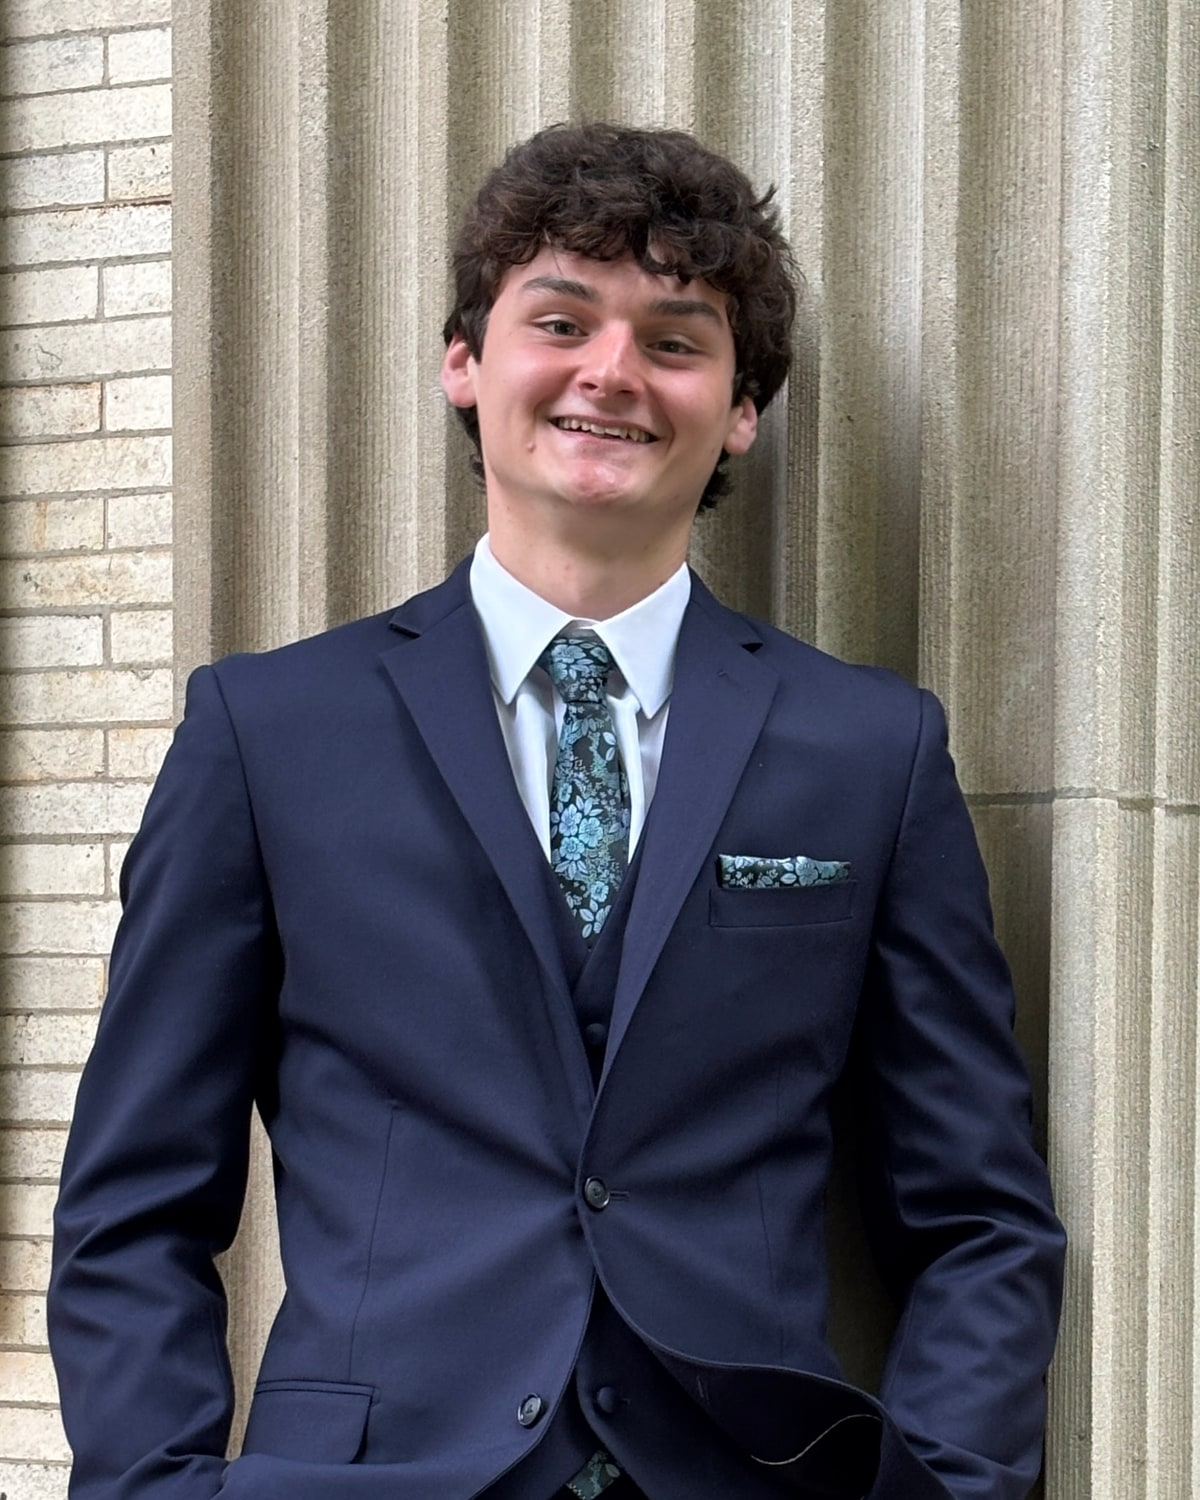
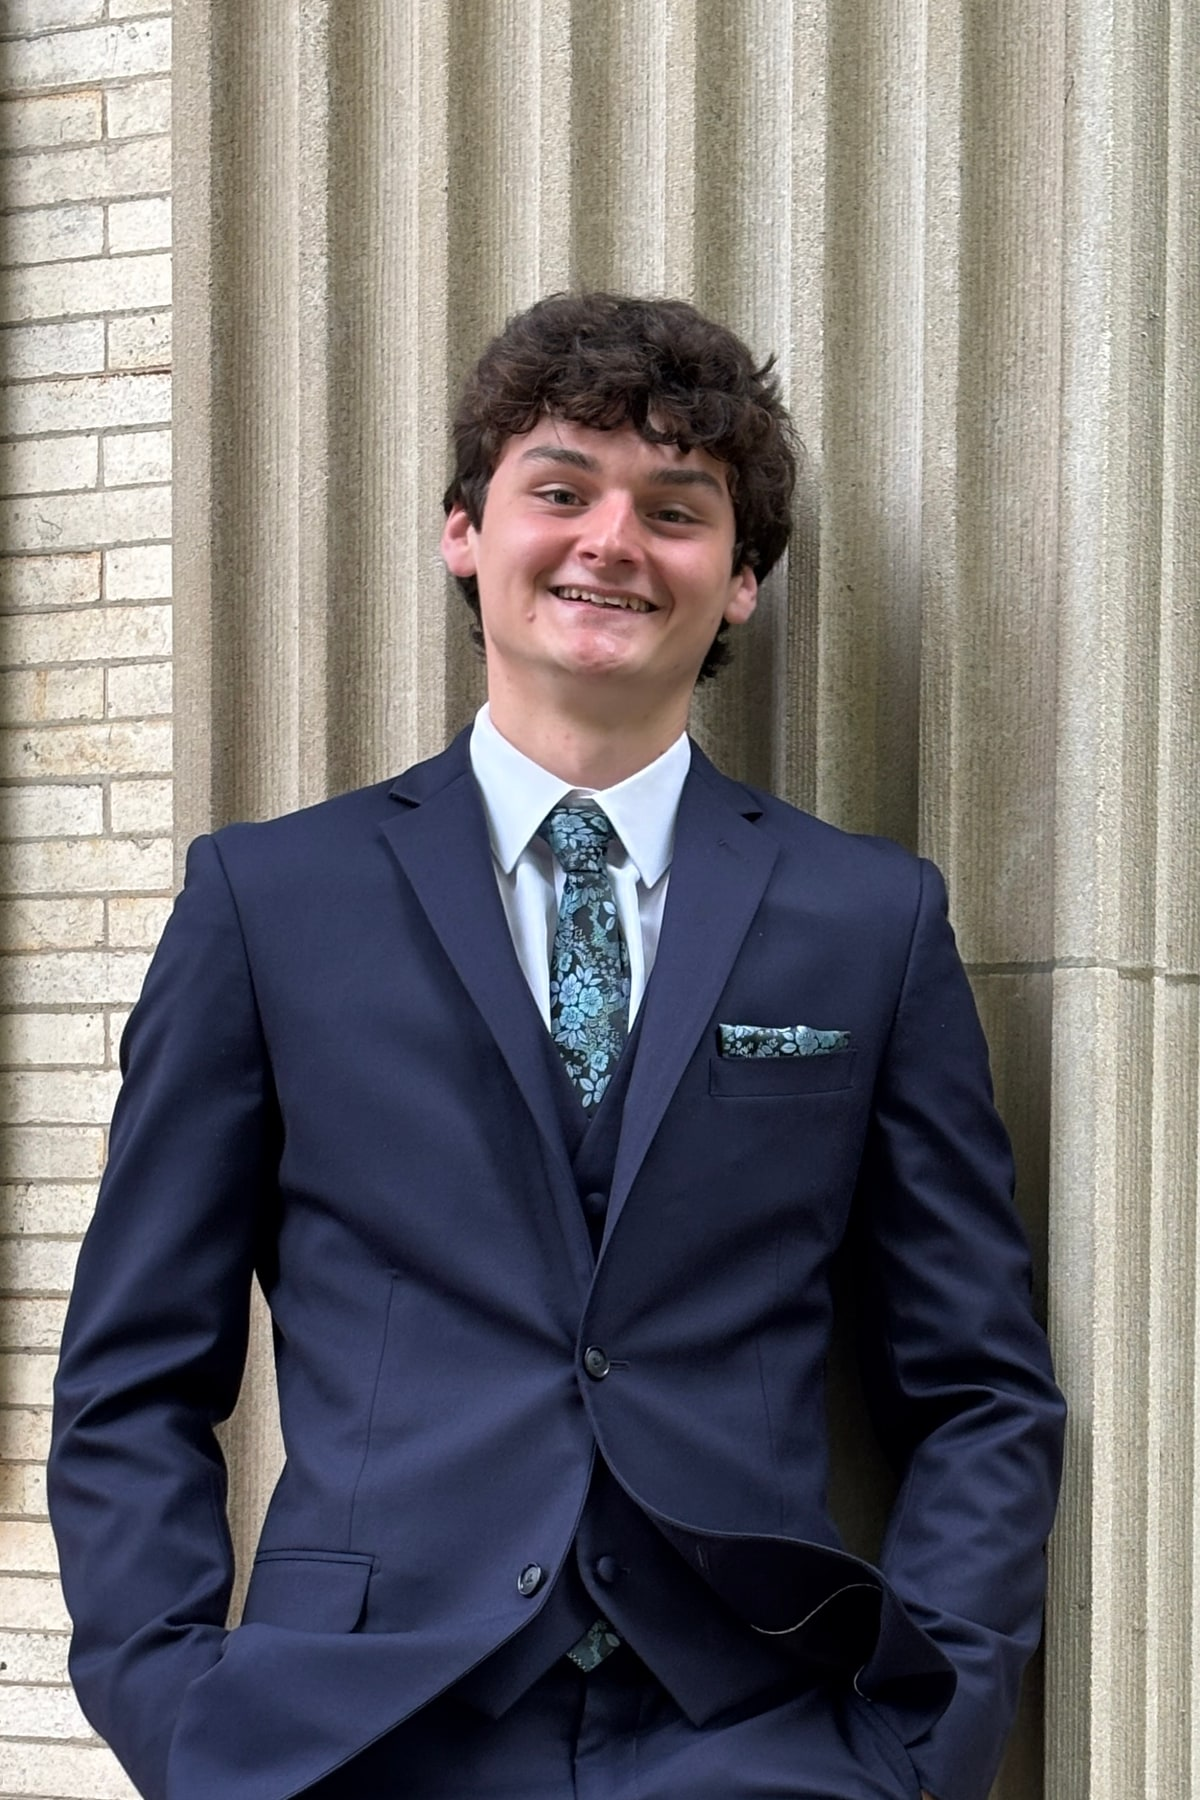
Updated content with resume and changed home photo size, presence, and cropping.

diff --git a/HANDOFF.md b/HANDOFF.md
@@ -11,7 +11,7 @@ Rewritten 2026-10-01 into sections; the log below is the history behind it.
 - **Live:** `https://rosschamplin.com` (Vercel, static). `www` redirects to it. Ross commits and pushes; Vercel deploys `main`.
 - **Built (PLAN.md tasks 1–12 and 14 done; 13 deferred by Ross):** Astro 7 static site, TypeScript strict, Tailwind v4 tokens; content collections; Home (identity, Selected work), `/projects`, `/projects/[slug]`, `/experience`, `/contact`; responsive and accessibility passes.
 - **Built beyond the plan, at Ross's request:** motion system (page change, Home first-load sequence, scroll reveals, project row hover and press with a travelling accent); title morph between a project row and its page; running index in the desktop margin with progress fills and drawing rules; logo contact links; education fields and a resume button; sharing basics (favicon, meta, canonical, Open Graph image, sitemap, robots); Vercel Web Analytics; graphite dust background.
-- **Content:** real: name, role line ("CS Student at Binghamton University"), email, GitHub, LinkedIn, Home photo, education (Binghamton University, Webster Schroeder High School), roles (2), achievements (6), and MixTwin's role, dates, stack, and what was built. Placeholders: bio, personal note, MixTwin's kind and problem, all of NailsByGabs, the resume PDF button.
+- **Content:** real: name, role line ("CS Student at Binghamton University"), email, GitHub, LinkedIn, Home photo, education (Binghamton University, Webster Schroeder High School), roles (2), achievements (6), the resume button (technical resume), and MixTwin (personal project; Ross's own description, marked for a technical rewrite). Placeholders: bio, personal note, all of NailsByGabs.
 
 ### In progress
 
@@ -19,7 +19,7 @@ None.
 
 ### Next
 
-- Waiting on Ross's answers (2026-10-02): which resume PDF to publish (the general one shows his home address and phone; the technical one his phone and school email), MixTwin's kind and problem plus repo/demo links, whether the photo crop and treatment are right, and what to do with the original photos and PDFs sitting in `src/content` (large; not used by the build). Do not publish a resume PDF until Ross chooses. Excluded at Ross's instruction: TOPSoccer (not started), the AP Water Quality project (first on the technical resume), and the technical skills list (outdated).
+- Waiting on Ross: a more technical MixTwin description (the current text is his plain-language version; the file is marked NEEDS REWRITE), MixTwin repo/demo links if any, NailsByGabs details (the most important project), bio and note, an updated technical resume. The Home photo is settled: Ross wants it big and dominant, not pinned while scrolling (2026-10-02). Ross runs `git rm --cached` on the originals (see the 2026-10-02 log). Excluded at Ross's instruction: TOPSoccer (not started), the AP Water Quality project (first on the technical resume), the technical skills list (outdated).
 - Waiting on Ross: bio, personal note, MixTwin and NailsByGabs details and screenshots, a third and fourth project later (one becomes the third featured). Delete placeholder entries as real ones arrive.
 - Ross to enable Web Analytics in Vercel if not done; set the `www` redirect to 308.
 - PLAN.md task 13 (performance) stays deferred until Ross asks.
@@ -363,3 +363,14 @@ None.
 - Photo: cropped `BallTuxFull.JPEG` (2268×4032) to a 4:5 head-to-waist frame (x 248, y 300, 1700×2125), resized to 1200×1500, metadata stripped (the original had EXIF), saved as [src/content/images/ross-champlin.jpg](src/content/images/ross-champlin.jpg) (288 KB). Home renders it with `<Picture>` (AVIF and WebP at 480, 720, 960, 1200; served files 20–174 KB), `loading="eager"`, `fetchpriority="high"`. Styling after matthewgresock.com: no frame, `contrast(1.04) brightness(0.9) saturate(0.9)`, mask fades on every edge (stronger left and bottom). Layout: from `lg` a right column (22rem, 26rem from `xl`) beside the text; on phones full width above the name. It joins the first-load sequence at 200ms. Removed the unused `public/images/profile/`.
 - Docs: [src/content/README.md](src/content/README.md) (photo and education), [DESIGN.md](DESIGN.md) (Home visual), [AGENTS.md](AGENTS.md) (Home visual, site map, content list, log), [PLAN.md](PLAN.md) (open items), and this file's Current.
 - Verified in headless Edge at 390×844 and 1440×900: photo 390×488 edge to edge above the name on the phone, 416×520 beside the text on desktop, AVIF served; Experience shows Education (2), Roles (2), Achievements (6), Resume; MixTwin shows role, dates, and stack; no horizontal overflow; no exceptions. `npm run check` 0/0/0; `npm run build` succeeds. Nothing committed.
+
+### 2026-10-02 — Claude (Opus 5.5)
+
+- Ross's answers: publish the technical resume; MixTwin is a personal project for beginners struggling to build DJ sets, with his plain-language description to be replaced by a technical one later; the photo should be bigger, "more persistent", cut less close above the head, and more vivid; keep the original photos and general resume out of the repo; summer camp stays Jun 2023 – Aug 2026; WonderCare stays ongoing (he works during breaks).
+- Resume: moved `src/content/RossChamplinTechnicalResumeUpdated.pdf` to `public/Ross-Champlin-Resume.pdf`; `profile.resume` is `label: Resume (PDF)`, `href: /Ross-Champlin-Resume.pdf`. The Experience button opens it in a new tab (verified: a new page target opens and the tab stays on `/experience`). It shows Ross's phone and school email; that was his choice.
+- [.gitignore](.gitignore): `src/content/BallTuxFull.JPEG`, `src/content/BallTuxFullZoomedOut.JPEG`, `src/content/RossChamplin2026Resume.pdf`. They were already committed in `5fb039e` (pushed; the GitHub repo answers 404 to unauthenticated API and raw requests, so it appears private), so the ignore alone does not remove them; Ross is to run `git rm --cached src/content/BallTuxFull.JPEG src/content/BallTuxFullZoomedOut.JPEG src/content/RossChamplin2026Resume.pdf` and commit. They stay in history unless the history is rewritten. Agents did not touch the index.
+- MixTwin ([src/content/projects/mixtwin.md](src/content/projects/mixtwin.md)): `kind: personal`, problem "Putting together DJ sets is a struggle for beginners.", summary "A DJ set planning assistant for beginners.", `placeholder: false`; body is Ross's description (spelling fixed: analyzed, determine, beat pattern, structure, certain, environment, windowed, rekordbox) followed by the resume bullets. A `NEEDS REWRITE` comment at the top marks it for his technical version.
+- Photo: re-cropped `BallTuxFull.JPEG` at 2:3 (x 248, y 60, 1700×2550; about 16% headroom above the hair, down to just past the hands), 1200×1800, metadata stripped, 350 KB source. Home: from `lg` a 26rem (30rem from `xl`) column at `min(100svh - 10rem, 46rem)` tall, `object-cover object-top`; phones `aspect-[3/4]`, full width. Filter now `contrast(1.06) saturate(1.15)` (was `contrast(1.04) brightness(0.9) saturate(0.9)`, which made it look dull; the crop itself kept the original's color, checked by mean saturation 0.29 in both). Measured: desktop 480×736, phone 390×520.
+- Docs: [src/content/README.md](src/content/README.md), [DESIGN.md](DESIGN.md), [AGENTS.md](AGENTS.md), [PLAN.md](PLAN.md), and this file's Current.
+- `npm run check` 0/0/0; `npm run build` succeeds. No horizontal overflow or exceptions at 390px and 1440px. Nothing committed.
+- Follow-up: Ross confirmed "more persistent" meant bigger and more dominant, as built, not pinned while scrolling. No change to the page.

diff --git a/AGENTS.md b/AGENTS.md
@@ -22,7 +22,7 @@ Why this stack: one language to maintain, content edited as Markdown, and a stat
 - Display name: Ross Champlin.
 - Look: a dark lab notebook, closer to Linear and Iota, with motion at the level of the fluidity references (Linear, Stripe, Cuberto, Fuselab). Tokens and motion rules are in DESIGN.md. v1 has no light theme.
 - Background: graphite dust on every page, a fine muted speck field the cursor (or a finger) brushes aside and scrolling stirs; no cursor change, trail, or click burst; switches itself off on slow devices. Approved 2026-10-01.
-- Home visual: Ross's photo (`src/content/images/ross-champlin.jpg`, cropped from `BallTuxFull.JPEG`), styled after matthewgresock.com: no frame, edges fading into the ground, right column on desktop, full width above the name on phones.
+- Home visual: Ross's photo (`src/content/images/ross-champlin.jpg`, a 2:3 crop of `BallTuxFull.JPEG` with headroom), styled after matthewgresock.com: large, vivid, no frame, edges fading into the ground; a near full-height right column on desktop, full width above the name on phones.
 - Purpose: a record of school and personal projects, a bio, and other life achievements, with room for personal commentary. Not an internship landing page.
 - Contact: email, GitHub, and LinkedIn are all public: `rosschamplin25@gmail.com`, `https://github.com/rchamp25`, and `https://www.linkedin.com/in/ross-champlin/` (in `src/content/links.yaml`). They show as logo links that go to the full address; the address itself is not printed on the page. Do not invent other contact methods.
 - Copy: build with labeled placeholders until Ross adds files. Do not wait, and do not mine a resume that is not in the repo.
@@ -31,7 +31,7 @@ Why this stack: one language to maintain, content edited as Markdown, and a stat
 - Git: agents work together in this local checkout. Ross commits. Agents do not commit or push.
 - Stack basics: npm, TypeScript strict, Tailwind v4. Fonts are self-hosted files in `public/fonts` (never Google Fonts or a runtime font CDN).
 - Analytics: Vercel Web Analytics only (no cookies). No other tracking.
-- Resume: a PDF in `public/`, opened in a new tab from a button on Experience. When Ross adds it, he will ask for its contents to be sorted into education, roles, and achievements.
+- Resume: the technical resume, `public/Ross-Champlin-Resume.pdf`, opened in a new tab from a button on Experience. The general resume is never published or committed (it has Ross's home address); its facts are on the site. Ross's original photos are not committed either (`.gitignore`).
 - Content grows over time: keep it in `src/content`, easy to add to, and delete placeholder entries as real ones arrive.
 
 ## Site map
@@ -48,10 +48,10 @@ Why this stack: one language to maintain, content edited as Markdown, and a stat
 Agents do not invent these. Until a fact is in `src/content`, the page shows a placeholder that says it is a placeholder. How to fill each file is in `src/content/README.md`.
 
 - 2–4 sentence bio and the short personal note for the home page. Name (Ross Champlin) and role line ("CS Student at Binghamton University") are supplied.
-- Each project: title, slug, one-line summary, problem, what you did, tech, dates, repo and demo URLs, featured on the home page or not, optional commentary, optional image. School work and personal work both belong here. MixTwin and NailsByGabs exist by name only; a third and fourth are coming.
+- Each project: title, slug, one-line summary, problem, what you did, tech, dates, repo and demo URLs, featured on the home page or not, optional commentary, optional image. School work and personal work both belong here. MixTwin is filled in from Ross's own description and needs a more technical rewrite he will supply; NailsByGabs exists by name only (the most important project; details coming); a third and fourth are coming.
 - Experience and achievements: org or context, role or what it was, dates, bullets you wrote, optional commentary
 - Education: supplied from the resumes (Binghamton University and Webster Schroeder High School)
-- Resume PDF for the Experience button: Ross is choosing which version to publish (the general resume shows his home address and phone). Education, roles, and achievements are already filled from both resumes, except TOPSoccer (not started yet), the AP Water Quality project, and the technical skills list (outdated).
+- Resume: supplied (technical resume, published). Education, roles, and achievements are filled from both resumes, except TOPSoccer (not started yet), the AP Water Quality project, and the technical skills list (outdated). The technical resume itself is outdated and will be replaced.
 - Email, GitHub, and LinkedIn: supplied (see Decisions from Ross).
 - Photo: supplied and on Home.
 
@@ -85,3 +85,4 @@ Append decisions here. Date them and name the agent. Do not delete earlier entri
 - 2026-10-01 — Claude (Opus 5.5): Ross bought `rosschamplin.com` and connected it on Vercel with Cloudflare DNS. Public URL and Astro `site` are now `https://rosschamplin.com`; `www` redirects to it. Updated Stack, Decisions from Ross (Hosting, Astro `site`), PLAN.md task 14, README, and HANDOFF.
 - 2026-10-01 — Claude (Opus 5.5): Brought this file up to date with the current direction at Ross's request: removed the stale "no custom domain" line; rules now cover Ross's direct requests beyond PLAN.md; Stack lists the motion script, the graphite dust canvas, and the sitemap and analytics integrations; Decisions add the look and motion level, the graphite dust background, the photo-only Home visual, analytics, the resume button, and growing content; the site map, content list, and folder map match the site as built.
 - 2026-10-02 — Claude (Opus 5.5): Ross added two resumes and two photos to `src/content`. Experience now holds 2 education, 2 roles, and 6 achievements from the resumes (excluding TOPSoccer, the AP Water Quality project, and the skills list, at Ross's instruction); MixTwin details came from the technical resume. Home shows the cropped `BallTuxFull.JPEG` photo through Astro's image pipeline. No address, phone, or school email is published. Education `major` became optional (a high school diploma has none).
+- 2026-10-02 — Claude (Opus 5.5): Ross chose the technical resume for the Experience button (`public/Ross-Champlin-Resume.pdf`); the general resume and the original photos are in `.gitignore`. MixTwin is a real personal project with Ross's description (to be rewritten more technically later). The Home photo was re-cropped with more headroom, made larger, and made more vivid.

diff --git a/src/content/projects/mixtwin.md b/src/content/projects/mixtwin.md
@@ -1,21 +1,23 @@
 ---
-# From Ross's technical resume. Still missing: kind (school or personal), the
-# problem it solved, and repo/demo links. Set placeholder to false once kind
-# is in (see src/content/README.md).
+# NEEDS REWRITE: Ross will supply a more technical description of MixTwin.
+# Until then the problem and body use his own wording (2026-10-02), with
+# spelling fixed, plus the bullets from his technical resume.
 title: "MixTwin"
-summary: "A DJ set planning assistant."
-problem: "Placeholder: the problem this project solved, not written yet."
+summary: "A DJ set planning assistant for beginners."
+kind: personal
+problem: "Putting together DJ sets is a struggle for beginners."
 role: Full-Stack Developer
 start: "2026-01"
 end: "2026-03"
 stack: ["React", "Vercel", "Spotify API", "Web Audio"]
 featured: true
 order: 1
-placeholder: true
+placeholder: false
 ---
 
-A web-based music library management and automated set-list generation tool, built with React and deployed on Vercel. Spotify API integration retrieves metadata and keeps track details in sync.
+MixTwin analyzes and tags the music in your local files and folders, using algorithms that determine each track's beat pattern, vibe, and structure, then groups songs together for specific DJ sets depending on the environment. It isn't trying to compete with DJ software such as rekordbox or Serato DJ; its aim is to help beginners string songs together in a way that makes sense for their sets. A windowed Spotify player, built on Spotify's API, lets you hear a song without leaving the tab.
 
-- An asynchronous analysis pipeline processes and displays track attributes from analyzed track libraries.
+- A web-based music library manager and automated set-list generator, built with React and deployed on Vercel. Spotify API integration retrieves metadata and keeps track details in sync.
+- An asynchronous analysis pipeline processes and displays track attributes from analyzed libraries.
 - A client-side processing tool built on web audio libraries analyzes BPM and harmonic key.
-- Local file-system uploading lets users run bulk analysis on entire folders, with Spotify API data checking for correction.
+- Local file-system uploading runs bulk analysis on entire folders, with Spotify API data checking for correction.

diff --git a/DESIGN.md b/DESIGN.md
@@ -58,7 +58,7 @@ Prose line length stays around 60–75 characters. Headlines can run wider. Do n
 - Header and footer use the same ink, hairline, and mono index. Header is sticky and compact on small screens.
 - Projects index: horizontal rules and type (title, one line, year, stack). Not a grid of equal rounded cards.
 - Project pages: problem, what was built, role, stack, links, dates. Images only when a real image is in content.
-- Home holds the name Ross Champlin, a one-line role, a short bio, a short personal note, and up to three featured projects. Its visual is Ross's photo (a head-to-waist crop), in the spirit of matthewgresock.com: no frame, toned slightly toward the warm dark palette, its edges fading into the ground (softly at the top and right, strongly at the left and bottom). From `lg` it sits in a right column beside the text; on phones it runs full width above the name. Contact links live in the footer on every page. Home is not a second copy of every page.
+- Home holds the name Ross Champlin, a one-line role, a short bio, a short personal note, and up to three featured projects. Its visual is Ross's photo, in the spirit of matthewgresock.com: large, no frame, a little more vivid than the original (`contrast(1.06) saturate(1.15)`), with headroom above the head, its edges fading into the ground (softly at the top and right, strongly at the left and bottom). From `lg` it fills a 26–30rem right column almost the height of the first screen, so the name breaks onto two lines beside it; on phones it runs full width (3:4) above the name. The top edge is pinned so the head never crops. Contact links live in the footer on every page. Home is not a second copy of every page.
 - Project pages include an optional commentary field: the author’s own note, separate from the problem and what was built.
 - Experience holds education, roles, and other life achievements that are not jobs. Each entry can include a short commentary.
 

diff --git a/src/content/README.md b/src/content/README.md
@@ -12,8 +12,8 @@ One entry, `ross`: `name`, `role` (the line under your name), `bio`, `note`, `re
 
 The social preview image (`public/og.png`, what shows when the link is shared) prints your name and role. After changing either, run `npm run share-images` to rebuild it and the icons.
 
-- **Resume:** put the PDF in `public/` (for example `public/resume.pdf`), then set `href: /resume.pdf` and a `label` such as `Resume (PDF)`. The Experience page then shows a button that opens it in a new tab.
-- **Photo:** the Home photo is `images/ross-champlin.jpg` in this folder (cropped head to waist, 1200×1500, metadata stripped). Astro makes small AVIF and WebP copies at build time. To change it, replace that file (or add another and point `src` at it, relative to `profile.yaml`):
+- **Resume:** the button on Experience opens `public/Ross-Champlin-Resume.pdf` (the technical resume) in a new tab. To update it, replace that file with the new PDF under the same name.
+- **Photo:** the Home photo is `images/ross-champlin.jpg` in this folder (a 2:3 crop from head to just past the hands, with headroom, 1200×1800, metadata stripped). Home pins its top edge, so the head is never cut off. Astro makes small AVIF and WebP copies at build time. To change it, replace that file (or add another and point `src` at it, relative to `profile.yaml`):
 
   ```yaml
   photo:
@@ -21,7 +21,7 @@ The social preview image (`public/og.png`, what shows when the link is shared) p
     alt: Short description of the photo
   ```
 
-  Keep large originals out of this folder's `images/`; crop and resize first (a 4:5 portrait around 1200px wide is plenty).
+  Keep large originals out of this folder's `images/`; crop and resize first (a 2:3 portrait around 1200px wide is plenty). Originals kept in `src/content/` are listed in `.gitignore` so they never reach the repo.
 
 ## links.yaml
 

diff --git a/PLAN.md b/PLAN.md
@@ -39,6 +39,9 @@ Done at Ross's request (details in HANDOFF.md and DESIGN.md):
 Open:
 
 - [x] Resume contents sorted into education, roles, and achievements (2026-10-02).
-- [ ] Resume PDF: publish the version Ross chooses and wire the Experience button.
+- [x] Resume PDF published (technical resume) and wired to the Experience button (2026-10-02).
+- [ ] Replace the technical resume when Ross updates it (it is outdated and lacks NailsByGabs).
 - [x] Ross's photo on Home (2026-10-02).
-- [ ] Bio, personal note, and project details (MixTwin, NailsByGabs, then a third and fourth project).
+- [x] MixTwin filled in from Ross's description (2026-10-02).
+- [ ] MixTwin: more technical description from Ross.
+- [ ] Bio, personal note, NailsByGabs details, then a third and fourth project.
